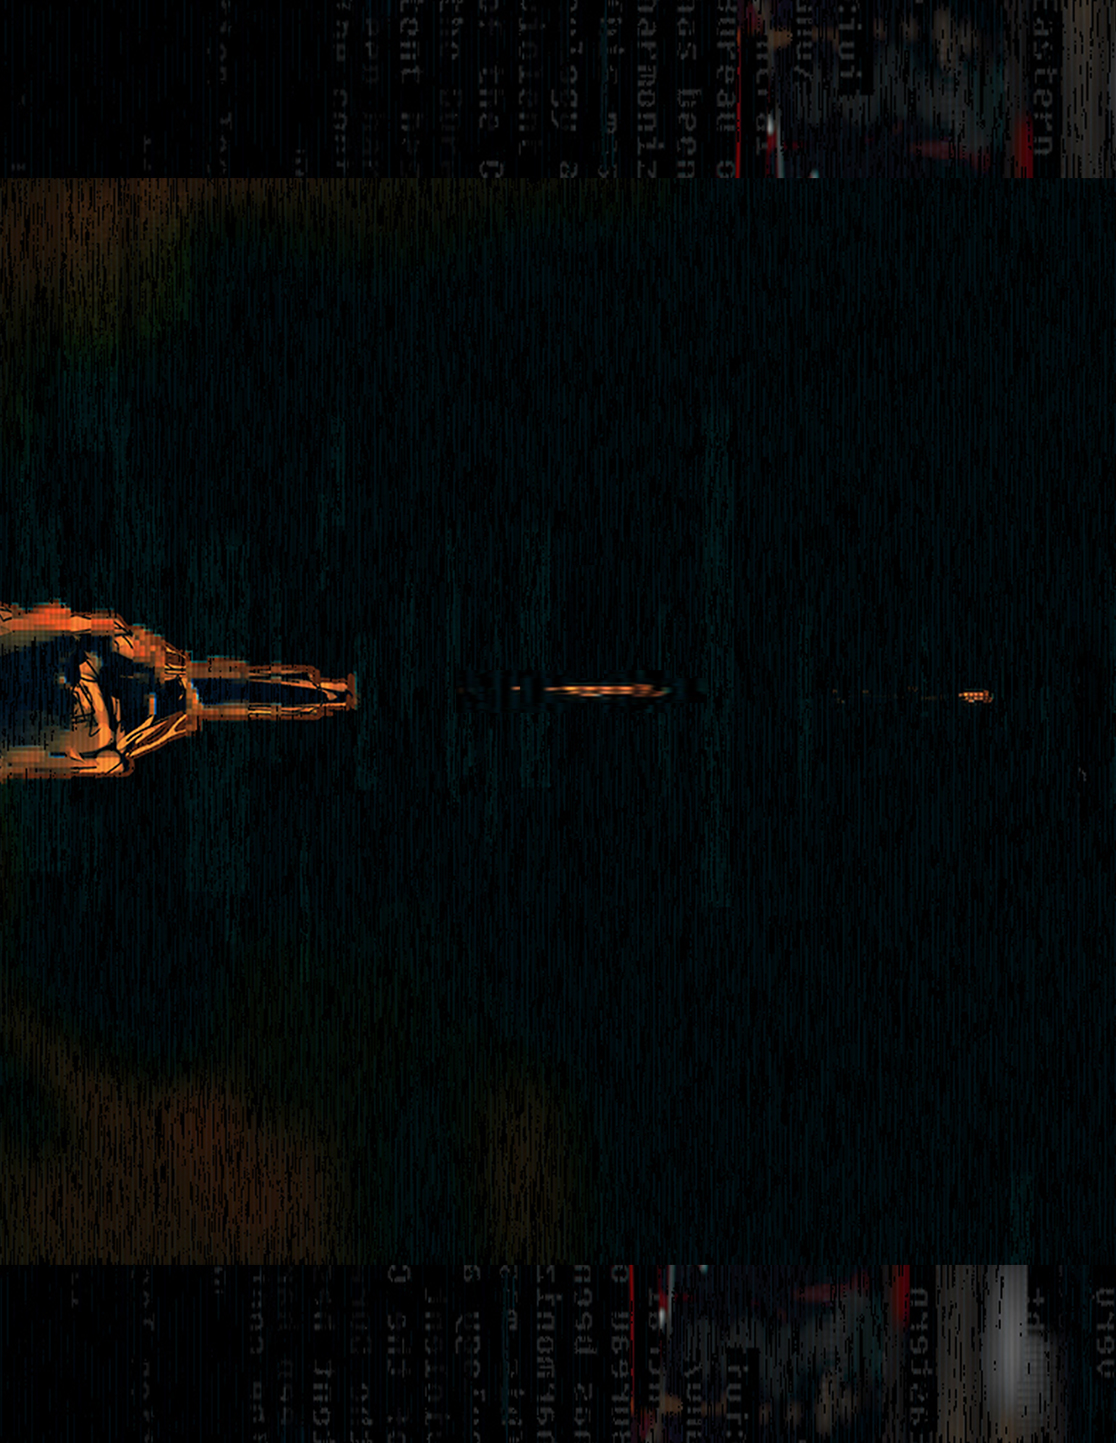
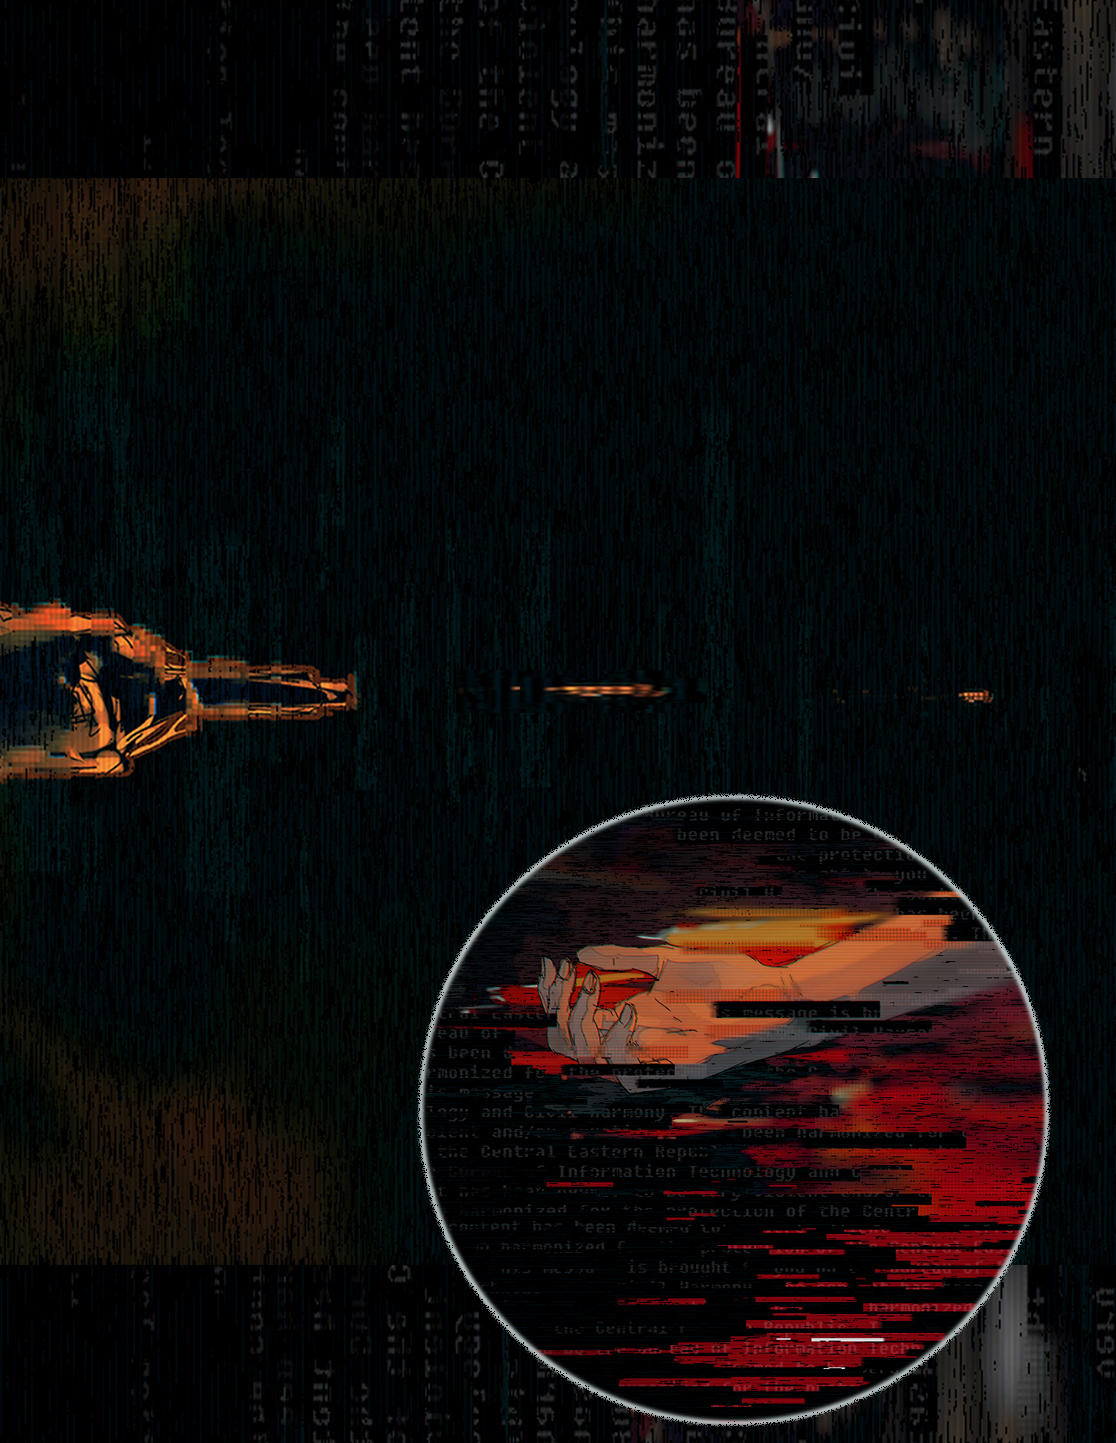
Adding death scene

Changed region(s): [[0.3656, 0.5301, 0.9444, 0.9979], [0.4265, 0.6237, 0.457, 0.6549]]

diff --git a/manuscript/page-26/style.css b/manuscript/page-26/style.css
@@ -1,3 +1,3 @@
 body{
-  background-image: url(//raw.githubusercontent.com/marvindanig/fisheye-placebo-intro/master/assets/images/FPI_PAGE_15.jpg); 
+  background-image: url(//raw.githubusercontent.com/marvindanig/fisheye-placebo-intro/master/assets/images/25.jpg); 
 }

diff --git a/manuscript/page-27/style.css b/manuscript/page-27/style.css
@@ -1,3 +1,3 @@
 body{
-  background-image: url(//raw.githubusercontent.com/marvindanig/fisheye-placebo-intro/master/assets/images/FPI_PAGE_23.jpg); 
+  background-image: url(//raw.githubusercontent.com/marvindanig/fisheye-placebo-intro/master/assets/images/26.jpg); 
 }
